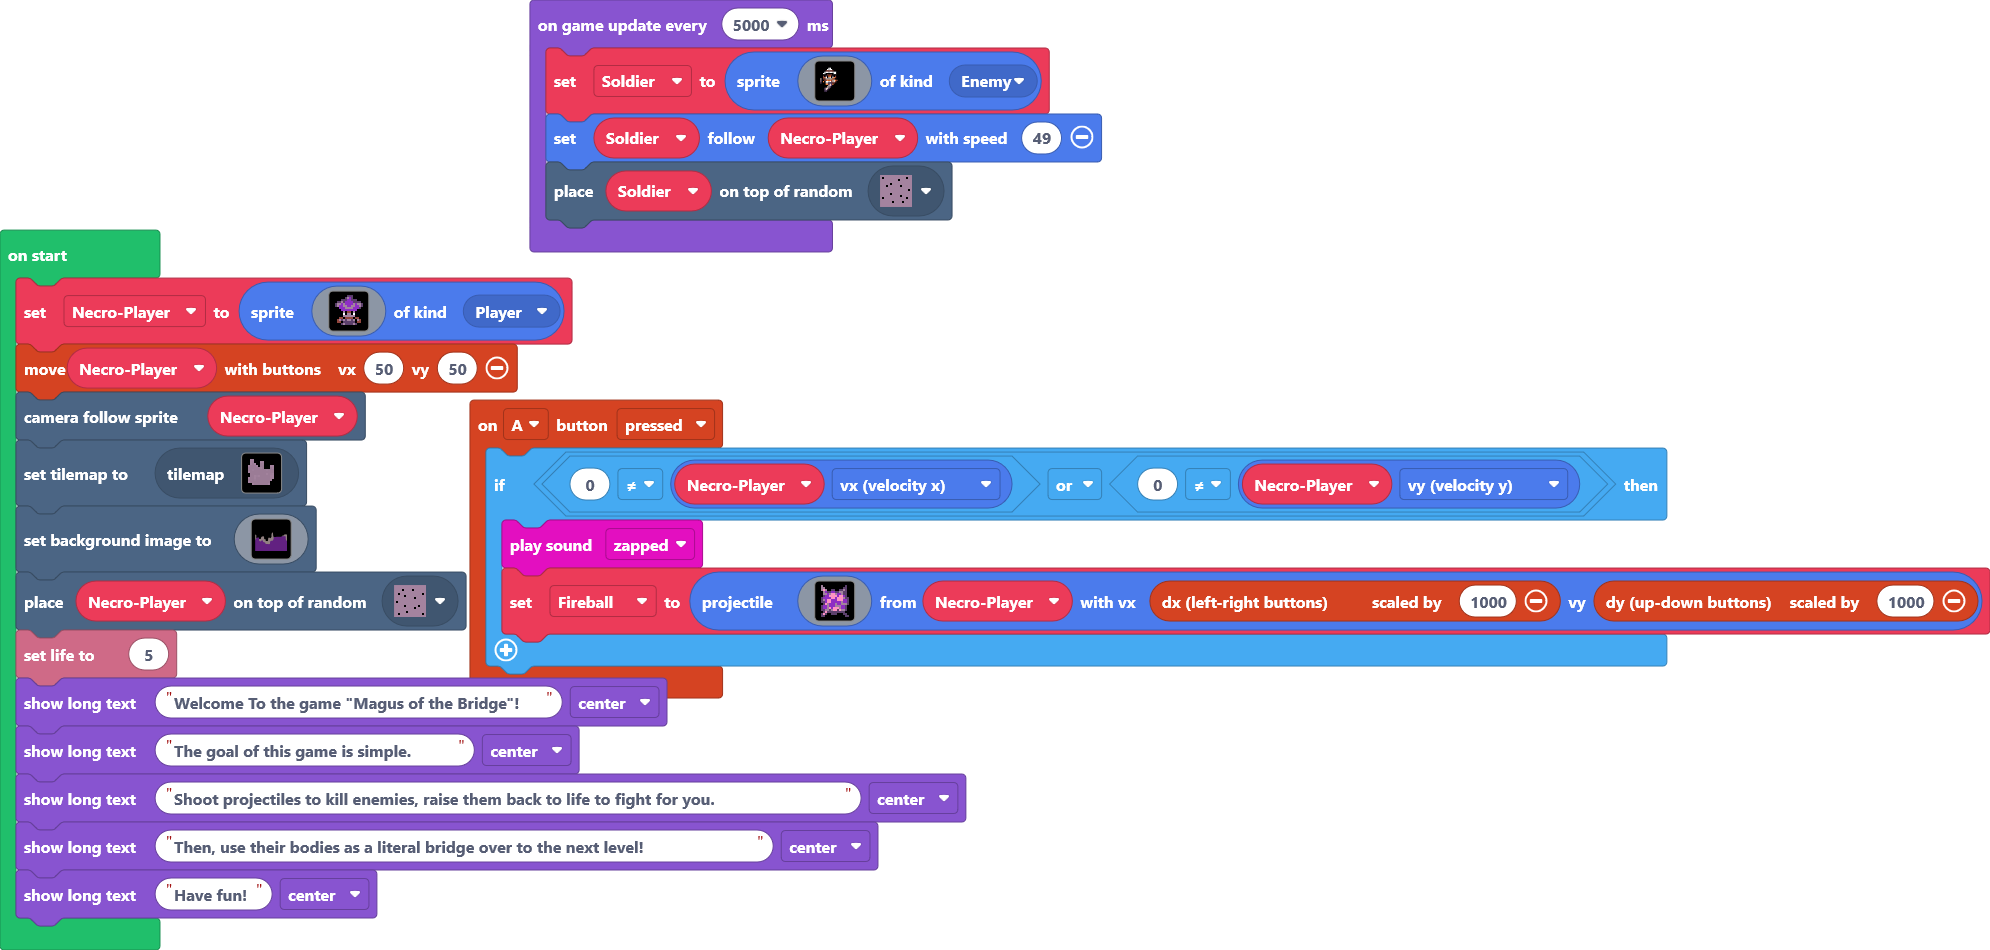
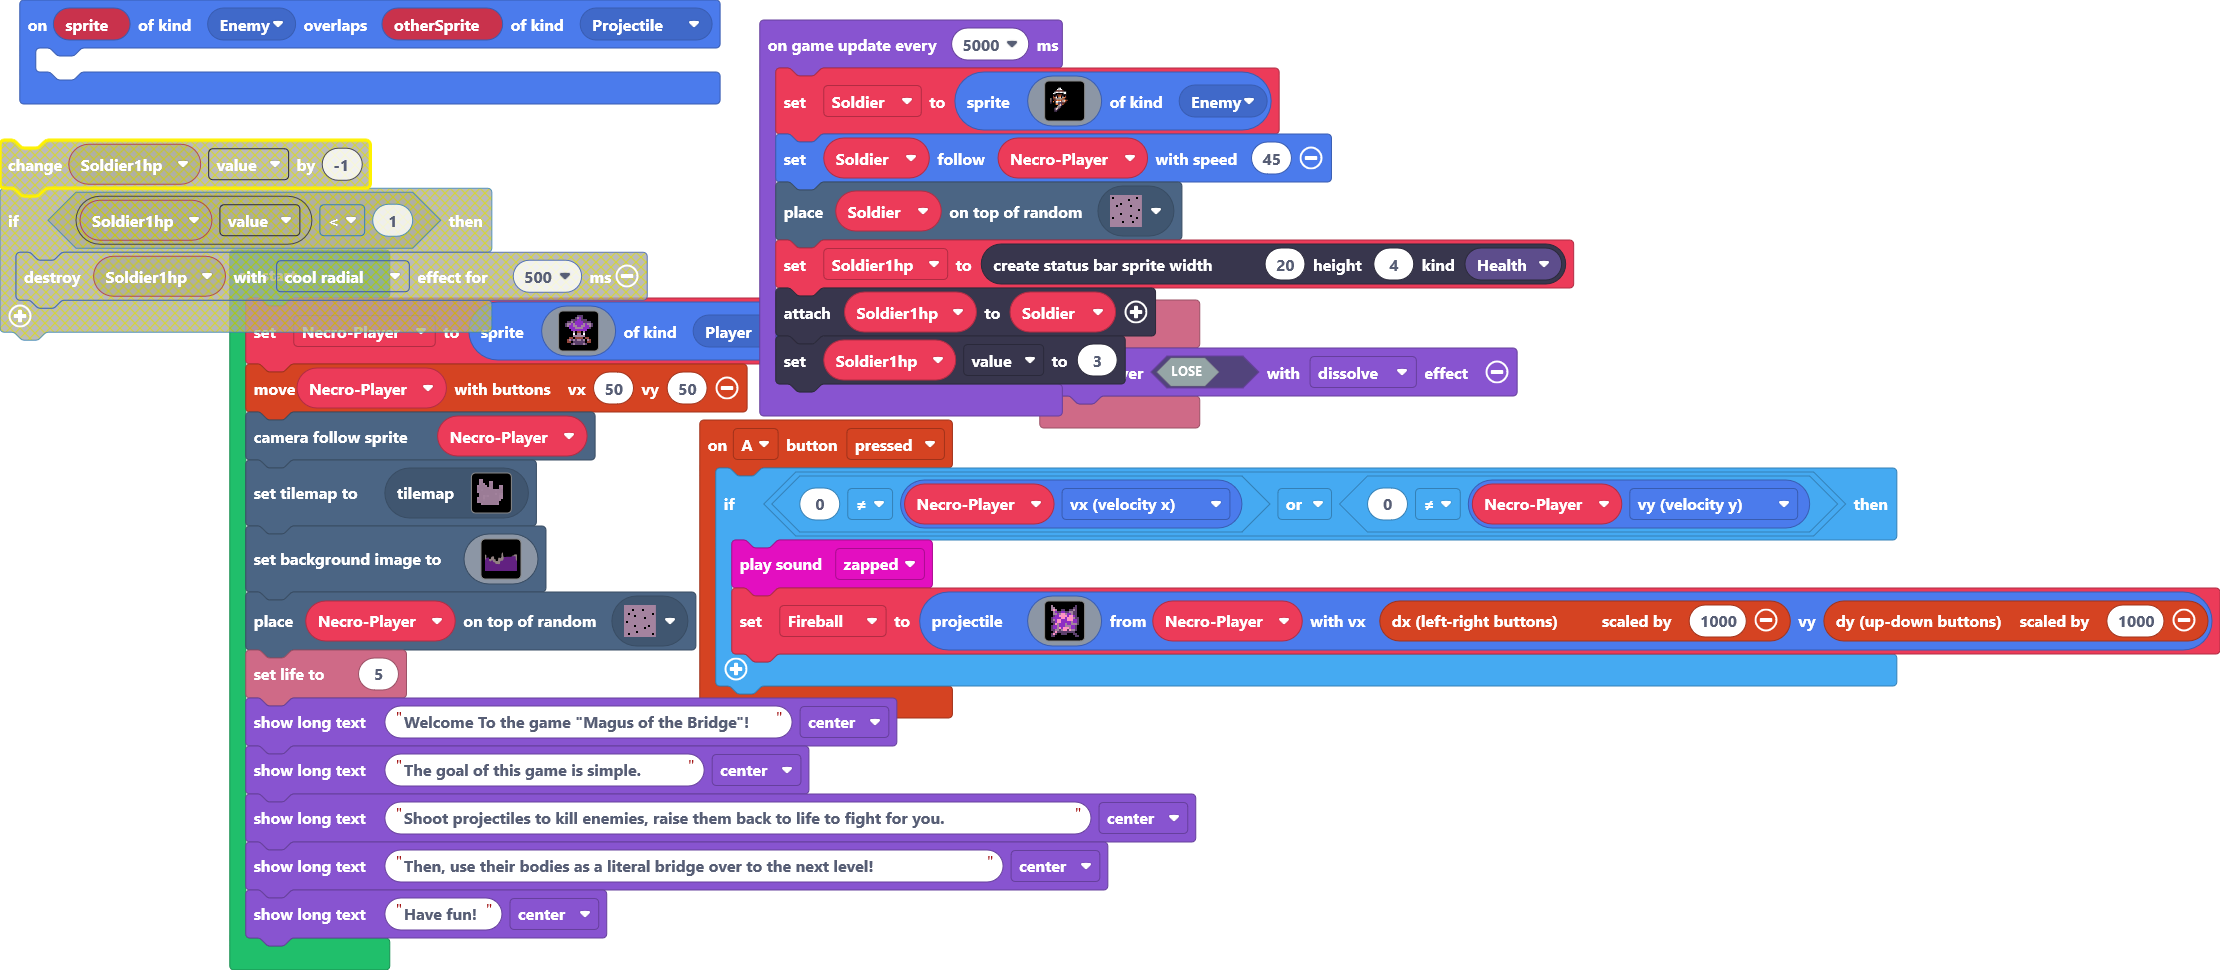
gave enemies health, edited their speed, removed damaging enemies

diff --git a/main.ts b/main.ts
@@ -4,6 +4,13 @@ controller.A.onEvent(ControllerButtonEvent.Pressed, function () {
         Fireball = sprites.createProjectileFromSprite(assets.image`Dark Blast`, NecroPlayer, controller.dx(1000), controller.dy(1000))
     }
 })
+sprites.onOverlap(SpriteKind.Enemy, SpriteKind.Projectile, function (sprite, otherSprite) {
+	
+})
+info.onLifeZero(function () {
+    game.over(false, effects.dissolve)
+})
+let Soldier1hp: StatusBarSprite = null
 let Soldier: Sprite = null
 let Fireball: Sprite = null
 let NecroPlayer: Sprite = null
@@ -142,6 +149,9 @@ game.showLongText("Then, use their bodies as a literal bridge over to the next l
 game.showLongText("Have fun!", DialogLayout.Center)
 game.onUpdateInterval(5000, function () {
     Soldier = sprites.create(assets.image`Soldier1`, SpriteKind.Enemy)
-    Soldier.follow(NecroPlayer, 49)
+    Soldier.follow(NecroPlayer, 45)
     tiles.placeOnRandomTile(Soldier, assets.tile`Ground_tile1`)
+    Soldier1hp = statusbars.create(20, 4, StatusBarKind.Health)
+    Soldier1hp.attachToSprite(Soldier)
+    Soldier1hp.value = 3
 })
